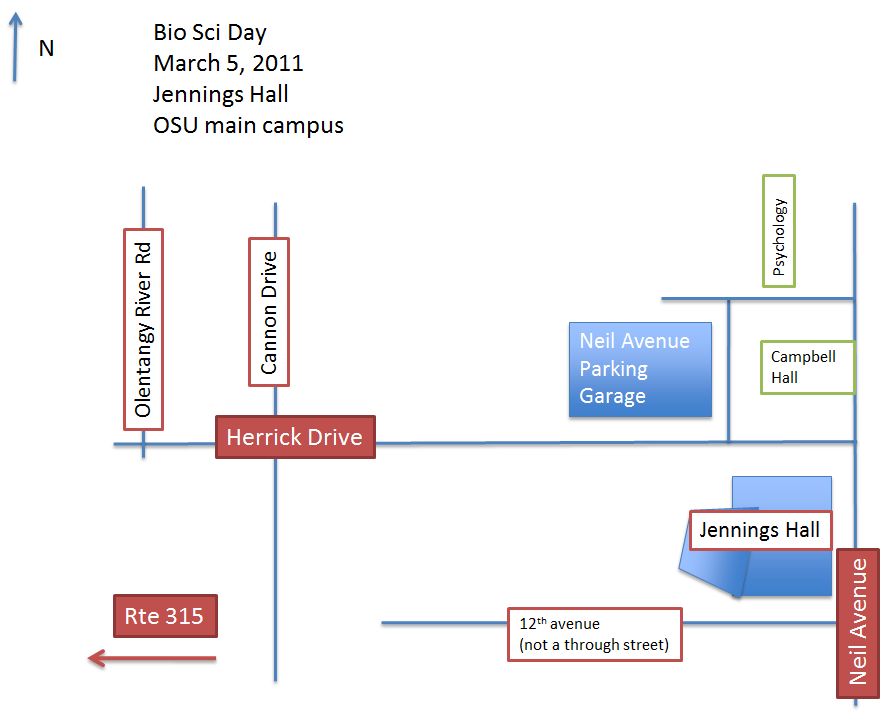
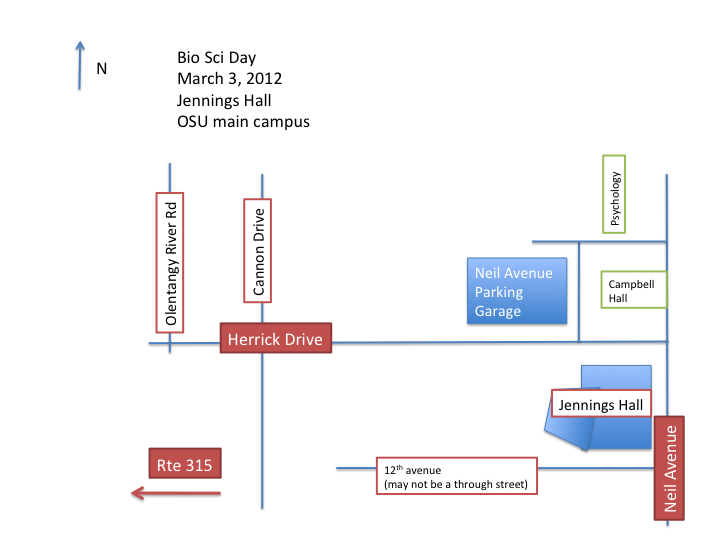
BioSci Day 2012

Changed region(s): [[0.0917, 0.237, 1.0, 1.0], [0.0917, 0.0296, 0.4278, 0.237], [0.0, 0.0, 0.0611, 0.1185]]

diff --git a/biosci-day/index.php b/biosci-day/index.php
@@ -9,20 +9,21 @@ menu('biosci-day');
 
 <p>Helix/Tri&ndash;Beta, the Biological Sciences Honorary society, will host
 	 our annual information day, &quot;Bio&ndash;Sci Day&quot; at The Ohio
-   State University. This event will be held on Saturday, March 5, 2011,
+   State University. This event will be held on Saturday, March 3, 2012,
    from 10:00am to 2:00pm. Lunch will be provided from a few of the campus
 	 dining halls.  For an agenda
    <a href="biosci-day/agenda.php">click here</a>.</p>
 
 <p>We have structured BioSci Day so you can explore majors and other
    academic options, interact with faculty and staff advisors, and meet
-   current students.</p>
+   current students. Please
+   <a href="http://artsandsciences.osu.edu/BioSciDay">register here</a>.</p>
 
 <p>We will hold BioSci day in the auditorium of Jennings Hall on the main
    campus. Parking is available at the Neil Avenue garage. Maps and
    directions to campus are
    <a href="biosci-day/directions.php">available here</a>.  On the morning
-   of March 5, we will also have student guides positioned at the major
+   of March 3, we will also have student guides positioned at the major
    entrances to campus to guide you to the Neil Avenue garage and to
    Jennings Hall.</p>
 
@@ -32,10 +33,10 @@ menu('biosci-day');
    faculty advisor Dr. Joan Herbers at
    <span style="white-space:nowrap">(614) 292&ndash;5472</span>.</p>
 
-<p>We look forward to seeing you March 5th.</p>
+<p>We look forward to seeing you March 3rd.</p>
 
 <p>Thank you,<br/>
 The Helix/Tri&ndash;Beta BioSci Day Chairs:<br/>
-Josh Davies, Jeff Cronley, and Cristina Sarmiento</p>
+Cristina Sarmiento, Mary Gemmel, and Justin Tossey</p>
 
 <? bottom(); ?>

diff --git a/biosci-day/agenda.php b/biosci-day/agenda.php
@@ -24,7 +24,7 @@ table#listing td {
 
 <h1>BioSci Day &mdash; Agenda</h1>
 
-<p class="head">March 5, 2011</p>
+<p class="head">March 3, 2012</p>
 <p class="head">All Events will Take Place in Jennings Hall</p>
 <p class="head">Neil Avenue at 12th Avenue</p>
 <p class="head">Ohio State University main campus</p>
@@ -34,10 +34,12 @@ table#listing td {
 <tr><td>9:30 &ndash; 10:30</td><td>Registration</td></tr>
 <tr><td>10:00</td><td>Welcome</td></tr>
 <tr><td>10:15 &ndash; 11:45</td><td>Faculty presentations</td></tr>
-<tr><td>11:45 &ndash; 1:00</td><td>Lunch</td></tr>
+<tr><td>11:45 &ndash; 1:00</td><td>Lunch Break*</td></tr>
 <tr><td>1:00 &ndash; 2:00</td><td>Student Panel</td></tr>
 <tr><td>2:00</td><td>Adjourn</td></tr>
 </table>
 </div>
+
+<p>* You can purchase lunch for $5 &ndash; $7 at various venues around campus. Student guides will be available to escort you to lunch.</p>
 
 <? bottom(); ?>
